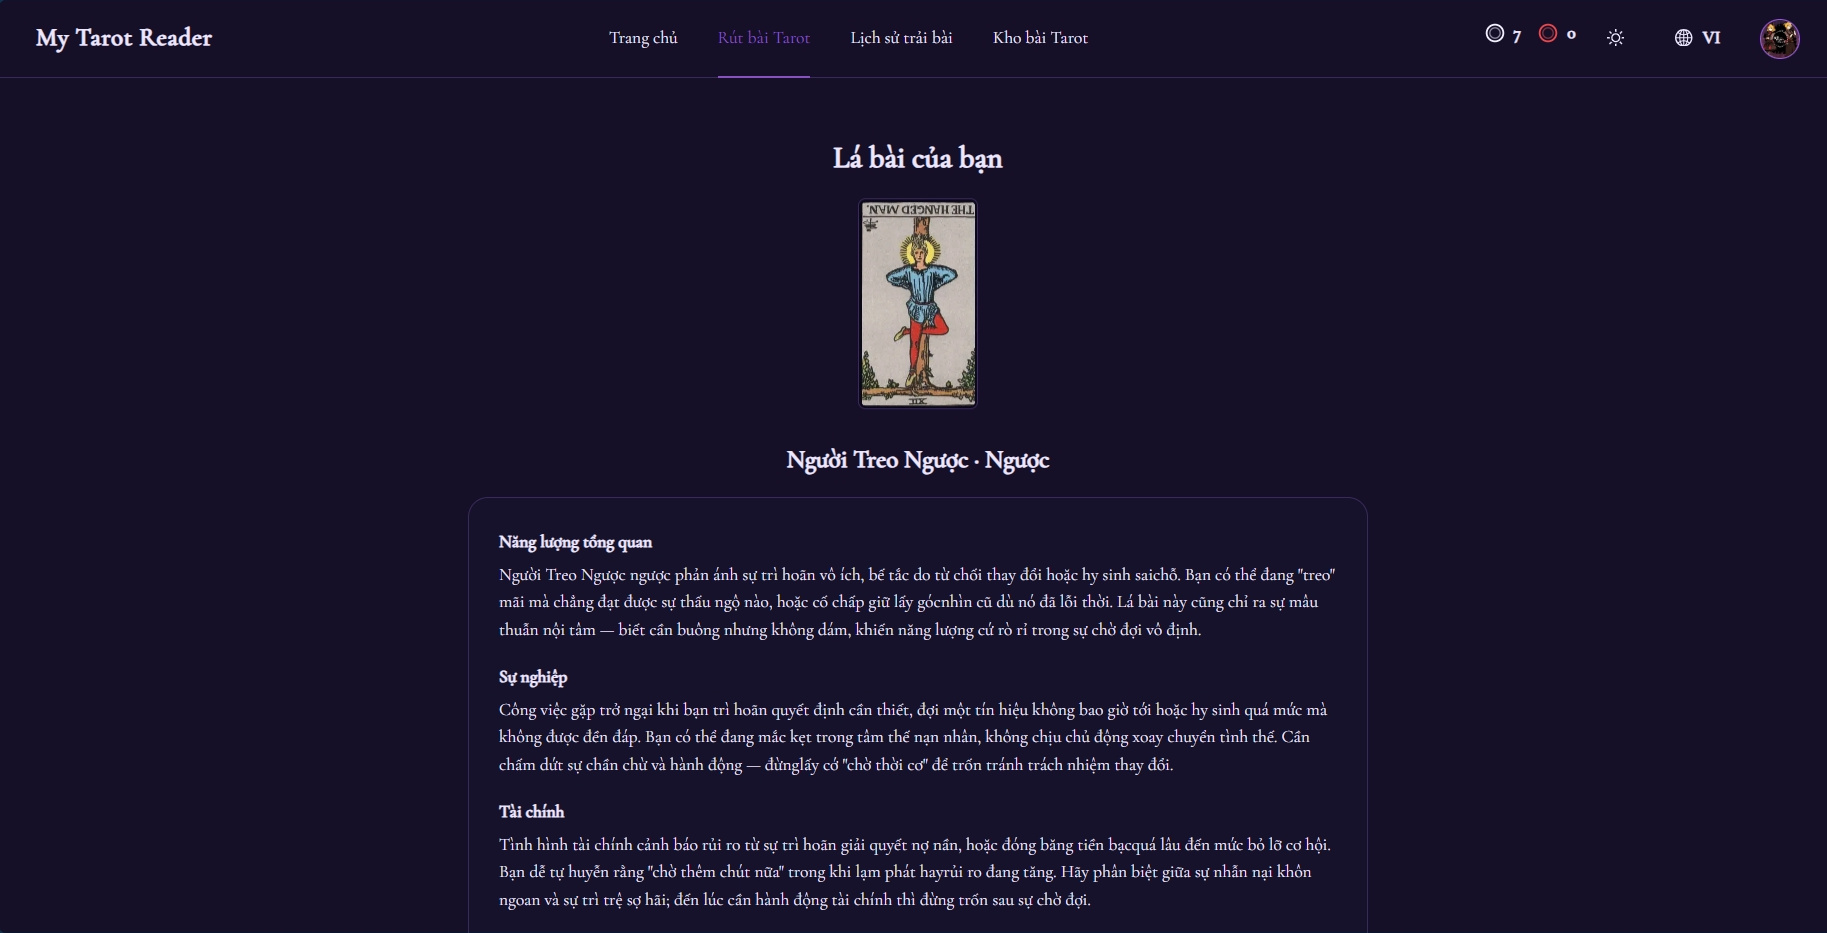
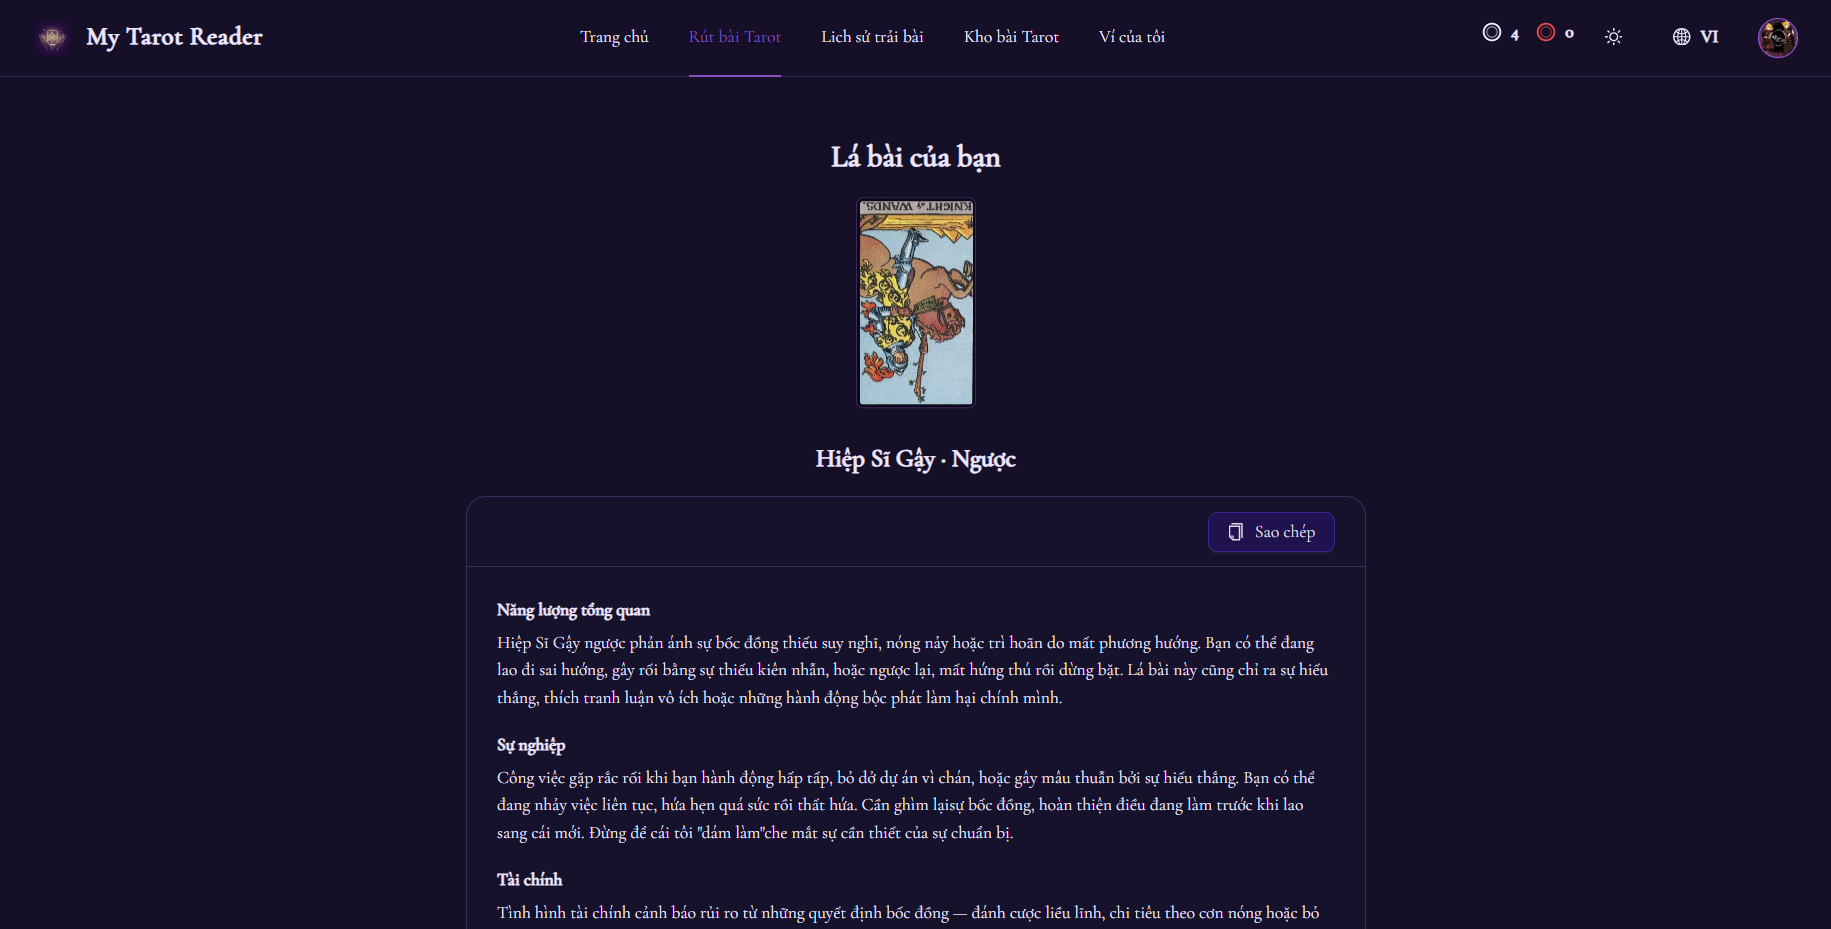
feat: update README with new images and add AI Tarot draw page

diff --git a/README.md b/README.md
@@ -11,7 +11,13 @@
 
 ![Home page](docs/homepage.png)
 
+![Home page (English)](docs/homepageEn.png)
+
+![Home page (Light mode)](docs/homepageLight.png)
+
 ![Tarot draw page](docs/drawpage.png)
+
+![AI Tarot draw page](docs/aidraw.png)
 
 ![Card library page](docs/librarypage.png)
 
